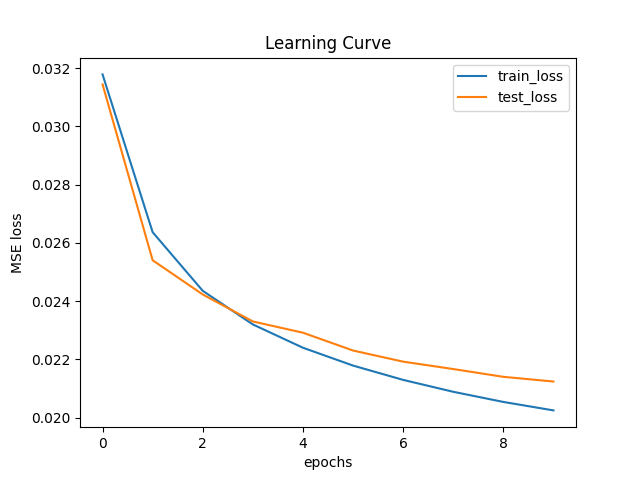
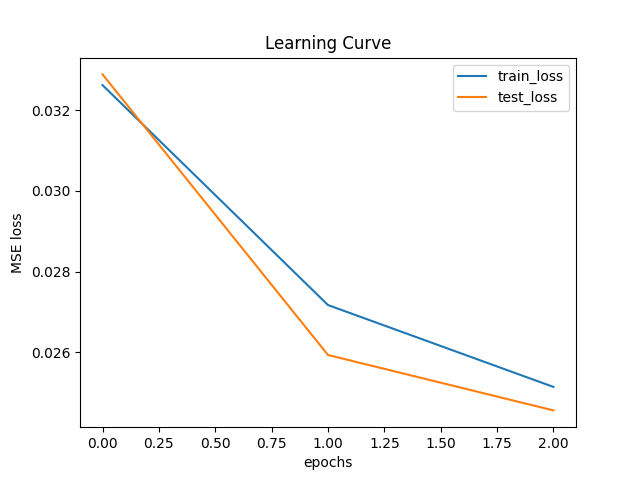
experiments with big dataset

diff --git a/reports/report.md b/reports/report.md
@@ -5,46 +5,46 @@
 ============================================================================================================================================
 Layer (type:depth-idx)                   Input Shape               Output Shape              Param #                   Kernel Shape
 ============================================================================================================================================
-TorchSensorNN5S_norm_deep                [50, 4, 64]               [50, 64, 64]              --                        --
-├─Sequential: 1-1                        [50, 1, 64, 4]            [50, 8, 64, 4]            --                        --
-│    └─Conv2d: 2-1                       [50, 1, 64, 4]            [50, 8, 64, 4]            32                        [3, 1]
-│    └─ReLU: 2-2                         [50, 8, 64, 4]            [50, 8, 64, 4]            --                        --
-├─Sequential: 1-2                        [50, 8, 64, 4]            [50, 64, 16, 4]           --                        --
-│    └─MaxPool2d: 2-3                    [50, 8, 64, 4]            [50, 8, 32, 4]            --                        [2, 1]
-│    └─InstanceNorm2d: 2-4               [50, 8, 32, 4]            [50, 8, 32, 4]            16                        --
-│    └─Conv2d: 2-5                       [50, 8, 32, 4]            [50, 64, 32, 4]           1,600                     [3, 1]
-│    └─ReLU: 2-6                         [50, 64, 32, 4]           [50, 64, 32, 4]           --                        --
-│    └─MaxPool2d: 2-7                    [50, 64, 32, 4]           [50, 64, 16, 4]           --                        [2, 1]
-│    └─InstanceNorm2d: 2-8               [50, 64, 16, 4]           [50, 64, 16, 4]           128                       --
-├─MaxPool2d: 1-3                         [50, 8, 64, 4]            [50, 8, 16, 4]            --                        [4, 1]
-├─Sequential: 1-4                        [50, 72, 16, 4]           [50, 128, 4, 4]           --                        --
-│    └─Conv2d: 2-9                       [50, 72, 16, 4]           [50, 128, 16, 4]          27,776                    [3, 1]
-│    └─ReLU: 2-10                        [50, 128, 16, 4]          [50, 128, 16, 4]          --                        --
-│    └─MaxPool2d: 2-11                   [50, 128, 16, 4]          [50, 128, 8, 4]           --                        [2, 1]
-│    └─InstanceNorm2d: 2-12              [50, 128, 8, 4]           [50, 128, 8, 4]           256                       --
-│    └─Conv2d: 2-13                      [50, 128, 8, 4]           [50, 128, 8, 4]           49,280                    [3, 1]
-│    └─MaxPool2d: 2-14                   [50, 128, 8, 4]           [50, 128, 4, 4]           --                        [2, 1]
-├─MaxPool2d: 1-5                         [50, 72, 16, 4]           [50, 72, 4, 4]            --                        [4, 1]
-├─Sequential: 1-6                        [50, 200, 4, 4]           [50, 64, 4, 1]            --                        --
-│    └─Conv2d: 2-15                      [50, 200, 4, 4]           [50, 64, 4, 1]            51,264                    [1, 4]
-│    └─ReLU: 2-16                        [50, 64, 4, 1]            [50, 64, 4, 1]            --                        --
-├─Sequential: 1-7                        [50, 256]                 [50, 4096]                --                        --
-│    └─Linear: 2-17                      [50, 256]                 [50, 195]                 50,115                    --
-│    └─ReLU: 2-18                        [50, 195]                 [50, 195]                 --                        --
-│    └─Linear: 2-19                      [50, 195]                 [50, 900]                 176,400                   --
-│    └─ReLU: 2-20                        [50, 900]                 [50, 900]                 --                        --
-│    └─Linear: 2-21                      [50, 900]                 [50, 4096]                3,690,496                 --
-│    └─LeakyReLU: 2-22                   [50, 4096]                [50, 4096]                --                        --
+TorchSensorNN5S_norm_deep                [100, 4, 64]              [100, 64, 64]             --                        --
+├─Sequential: 1-1                        [100, 1, 64, 4]           [100, 8, 64, 4]           --                        --
+│    └─Conv2d: 2-1                       [100, 1, 64, 4]           [100, 8, 64, 4]           32                        [3, 1]
+│    └─ReLU: 2-2                         [100, 8, 64, 4]           [100, 8, 64, 4]           --                        --
+├─Sequential: 1-2                        [100, 8, 64, 4]           [100, 64, 16, 4]          --                        --
+│    └─MaxPool2d: 2-3                    [100, 8, 64, 4]           [100, 8, 32, 4]           --                        [2, 1]
+│    └─InstanceNorm2d: 2-4               [100, 8, 32, 4]           [100, 8, 32, 4]           16                        --
+│    └─Conv2d: 2-5                       [100, 8, 32, 4]           [100, 64, 32, 4]          1,600                     [3, 1]
+│    └─ReLU: 2-6                         [100, 64, 32, 4]          [100, 64, 32, 4]          --                        --
+│    └─MaxPool2d: 2-7                    [100, 64, 32, 4]          [100, 64, 16, 4]          --                        [2, 1]
+│    └─InstanceNorm2d: 2-8               [100, 64, 16, 4]          [100, 64, 16, 4]          128                       --
+├─MaxPool2d: 1-3                         [100, 8, 64, 4]           [100, 8, 16, 4]           --                        [4, 1]
+├─Sequential: 1-4                        [100, 64, 16, 4]          [100, 128, 4, 4]          --                        --
+│    └─Conv2d: 2-9                       [100, 64, 16, 4]          [100, 128, 16, 4]         24,704                    [3, 1]
+│    └─ReLU: 2-10                        [100, 128, 16, 4]         [100, 128, 16, 4]         --                        --
+│    └─MaxPool2d: 2-11                   [100, 128, 16, 4]         [100, 128, 8, 4]          --                        [2, 1]
+│    └─InstanceNorm2d: 2-12              [100, 128, 8, 4]          [100, 128, 8, 4]          256                       --
+│    └─Conv2d: 2-13                      [100, 128, 8, 4]          [100, 128, 8, 4]          49,280                    [3, 1]
+│    └─MaxPool2d: 2-14                   [100, 128, 8, 4]          [100, 128, 4, 4]          --                        [2, 1]
+├─MaxPool2d: 1-5                         [100, 64, 16, 4]          [100, 64, 4, 4]           --                        [4, 1]
+├─Sequential: 1-6                        [100, 128, 4, 4]          [100, 64, 4, 1]           --                        --
+│    └─Conv2d: 2-15                      [100, 128, 4, 4]          [100, 64, 4, 1]           32,832                    [1, 4]
+│    └─ReLU: 2-16                        [100, 64, 4, 1]           [100, 64, 4, 1]           --                        --
+├─Sequential: 1-7                        [100, 256]                [100, 4096]               --                        --
+│    └─Linear: 2-17                      [100, 256]                [100, 195]                50,115                    --
+│    └─ReLU: 2-18                        [100, 195]                [100, 195]                --                        --
+│    └─Linear: 2-19                      [100, 195]                [100, 900]                176,400                   --
+│    └─ReLU: 2-20                        [100, 900]                [100, 900]                --                        --
+│    └─Linear: 2-21                      [100, 900]                [100, 4096]               3,690,496                 --
+│    └─LeakyReLU: 2-22                   [100, 4096]               [100, 4096]               --                        --
 ============================================================================================================================================
 Total params: 4,025,859
 Trainable params: 4,025,859
 Non-trainable params: 0
-Total mult-adds (M): 384.50
+Total mult-adds (M): 741.97
 ============================================================================================================================================
-Input size (MB): 0.05
-Forward/backward pass size (MB): 14.88
-Params size (MB): 16.19
-Estimated Total Size (MB): 31.12
+Input size (MB): 0.10
+Forward/backward pass size (MB): 29.75
+Params size (MB): 16.10
+Estimated Total Size (MB): 45.96
 ============================================================================================================================================
 
 ```
